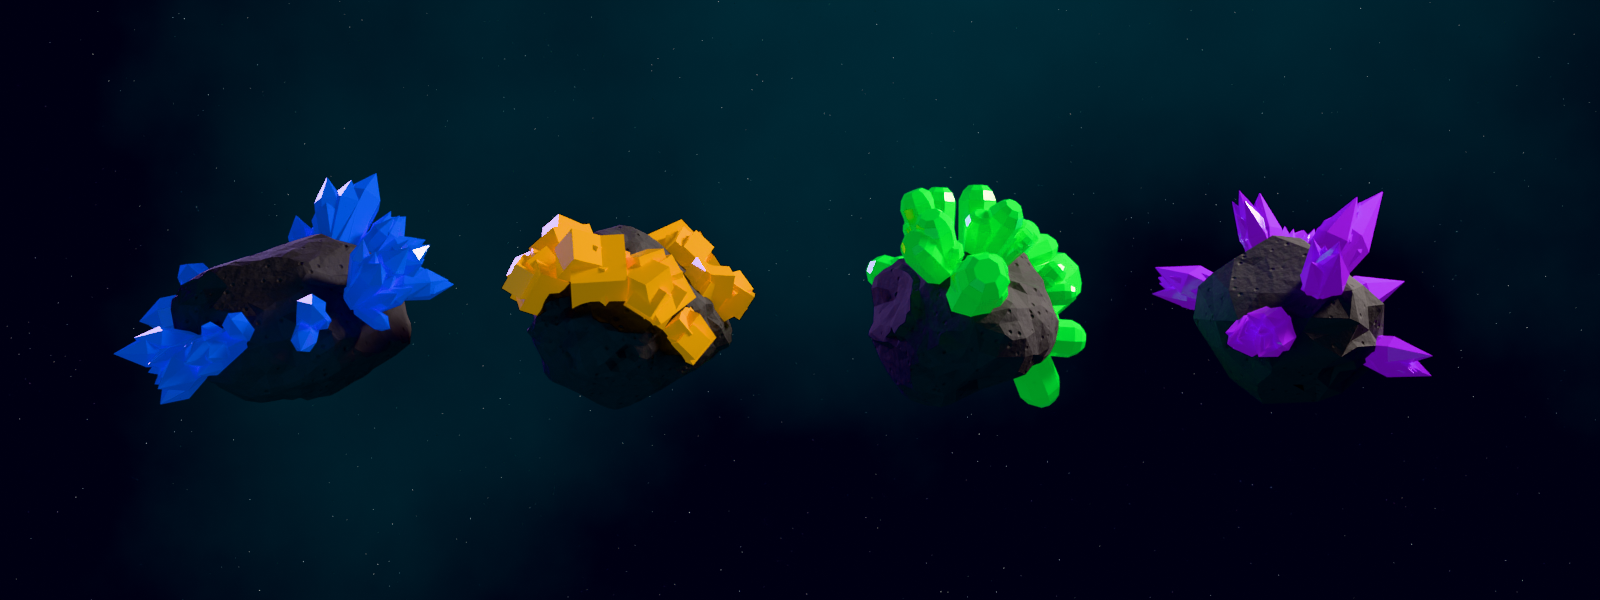
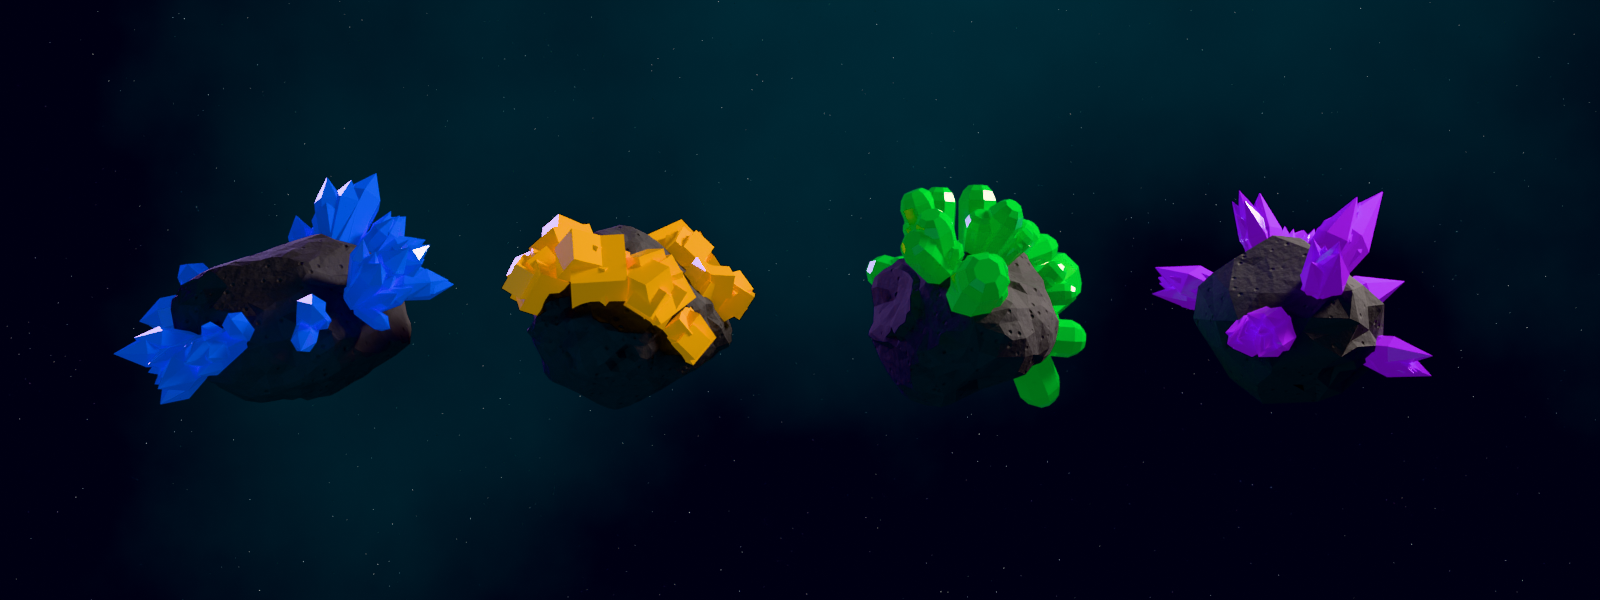
v15 WIP: concept-vs comparisons for installations, rigs, pickups, crystals, station low views; deeper green gems

Changed region(s): [[0.5312, 0.3, 0.6875, 0.69]]

diff --git a/tools/blender/compare_env.py b/tools/blender/compare_env.py
@@ -2,14 +2,14 @@
 import sys
 from PIL import Image, ImageDraw, ImageFont
 B = '/workspace/stellar-frontier/'
-def comp(crop, render, out, title):
-    a = Image.open(B + 'briefs/crops/' + crop).convert('RGB'); b = Image.open(B + 'blender/shots/env/' + render).convert('RGB')
+def comp(crop, render, out, title, ver='v14'):
+    a = Image.open(B + ('briefs/' + crop if crop.startswith('crops2/') else 'briefs/crops/' + crop)).convert('RGB'); b = Image.open(B + 'blender/shots/env/' + render).convert('RGB')
     H = 520; a = a.resize((int(a.width * H / a.height), H)); b = b.resize((int(b.width * H / b.height), H))
     o = Image.new('RGB', (a.width + b.width + 12, H + 44), (10, 10, 18)); o.paste(a, (0, 44)); o.paste(b, (a.width + 12, 44))
     d = ImageDraw.Draw(o)
     try: f = ImageFont.truetype('/usr/share/fonts/truetype/dejavu/DejaVuSans-Bold.ttf', 22)
     except Exception: f = None
-    d.text((10, 10), 'CONCEPT: ' + title, fill=(230, 210, 160), font=f); d.text((a.width + 22, 10), 'BLENDER (v14)', fill=(150, 220, 255), font=f)
+    d.text((10, 10), 'CONCEPT: ' + title, fill=(230, 210, 160), font=f); d.text((a.width + 22, 10), 'BLENDER (' + ver + ')', fill=(150, 220, 255), font=f)
     o.save(B + 'blender/shots/env/' + out)
 if __name__ == '__main__':
     M = [('ast-lumpy.png', 'asteroid-lumpy_a.png', 'lumpy rock'), ('ast-porous3.png', 'asteroid-porous.png', 'porous rock'),
@@ -21,10 +21,33 @@ if __name__ == '__main__':
           ('st-dome.png', 'station-l5.png', 'dome biosphere (L5 Industrial Hub)'), ('st-industrial.png', 'station-l5.png', 'industrial hub (L5 Industrial Hub)'),
           ('st-ring.png', 'station-l6.png', 'ring station (L6 Frontier Citadel)'), ('st-ring3.png', 'station-l6.png', 'ring citadel, sheet 3 (L6)'),
           ('crystals3.png', 'sheet-crystals.png', 'crystal colours (rich rocks)')]
+    V15 = [('crops2/citadel.png', 'inst-hq.png', 'pirate citadel -> Faction Stronghold', 'concept-vs-inst-hq.png'),
+           ('crops2/fortress3.png', 'inst-hq.png', 'fortress, sheet 3 -> Faction Stronghold', 'concept-vs-inst-hq-b.png'),
+           ('crops2/turretplat3.png', 'inst-def.png', 'turret platform -> Orbital Defense Platform', 'concept-vs-inst-def.png'),
+           ('crops2/comms.png', 'inst-comm.png', 'comms dish relay -> Communication Array', 'concept-vs-inst-comm.png'),
+           ('crops2/hangar.png', 'inst-yard.png', 'hangar block -> Hidden Shipyard', 'concept-vs-inst-yard.png'),
+           ('crops2/hangar3.png', 'inst-hangar.png', 'hangar, sheet 3 -> Fighter Hangar', 'concept-vs-inst-hangar.png'),
+           ('crops2/reactor.png', 'inst-reactor.png', 'reactor ring -> Fusion Reactor', 'concept-vs-inst-reactor.png'),
+           ('crops2/smallring.png', 'inst-gen.png', 'ring outpost -> Shield Generator', 'concept-vs-inst-gen.png'),
+           ('crops2/turretplat3.png', 'inst-turret.png', 'turret platform -> Defense Turret', 'concept-vs-inst-turret.png'),
+           ('crops2/beacon.png', 'inst-relay.png', 'green beacon spire -> repair relay', 'concept-vs-inst-relay.png'),
+           ('crops2/pit.png', 'rig-pit.png', 'open-pit mine + crane -> Resource Facility', 'concept-vs-rig-pit.png'),
+           ('crops2/drill.png', 'rig-drill.png', 'crystal drill rig (set dressing)', 'concept-vs-rig-drill.png'),
+           ('crops2/tunnel.png', 'rig-tunnel.png', 'tunnel hangar (set dressing)', 'concept-vs-rig-tunnel.png'),
+           ('crops2/colony.png', 'rig-colony.png', 'dome colony (set dressing)', 'concept-vs-rig-colony.png'),
+           ('crops2/gems3.png', 'sheet-pickups.png', 'gems -> ore pickups', 'concept-vs-pickups.png'),
+           ('crops2/gems3.png', 'sheet-crystals.png', 'gems -> rich crystal rocks', 'concept-vs-sheet-crystals.png'),
+           ('crops/st-industrial3.png', 'station-l4-low.png', 'rock base + cranes (L4, low view, v15 detail)', 'concept-vs-station-l4-low.png'),
+           ('crops/st-ring.png', 'station-l6-low.png', 'ring station (L6, low view, v15 detail)', 'concept-vs-station-l6-low.png')]
+    if '--v15' in sys.argv:
+        for c, r, t, n in V15:
+            c = c if c.startswith('crops2/') else c[6:]
+            comp(c, r, n, t, 'v15')
+        sys.exit(0)
     only = sys.argv[1:]
     for c, r, t in M:
         n = 'concept-vs-' + r if not r.startswith('asteroid-') else r.replace('asteroid-', 'concept-vs-asteroid-')
         if c.startswith('st-industrial.') or c.startswith('st-ring3') : n = n.replace('.png', '-b.png')
         if not only or any(k in r for k in only):
-            try: comp(c, r, n, t)
+            try: comp(c, r, n, t, 'v15' if 'station' in r or 'crystals' in r else 'v14')
             except FileNotFoundError as e: print('skip', e)

diff --git a/tools/blender/gems.py b/tools/blender/gems.py
@@ -27,12 +27,13 @@ if __name__ == '__main__':
     export('pickups', objs, normals=False, uvs=False)
     if '--render' in sys.argv:
         space_world(1.0)
-        tint = {'hex': (0.3, 1.4, 3.6), 'cube': (3.4, 2.0, 0.4), 'emerald': (0.25, 2.6, 0.8), 'amethyst': (2.2, 0.7, 3.6)}
+        tint = {'hex': (0.3, 1.4, 3.6), 'cube': (3.4, 2.3, 0.45), 'emerald': (0.25, 2.6, 0.8), 'amethyst': (2.2, 0.7, 3.6)}
         for i, (st, ob) in enumerate(zip(STYLES, objs)):
             ob.location = ((i - 1.5) * 0.9, 0, 0)
             m = bpy.data.materials['X'].copy(); b = m.node_tree.nodes['Principled BSDF']; c = tint[st]; mx = max(c); sat = lambda x: (x / mx) ** 2.2
             b.inputs['Emission Color'].default_value = (sat(c[0]), sat(c[1]), sat(c[2]), 1); b.inputs['Emission Strength'].default_value = 0.25 * mx
-            b.inputs['Base Color'].default_value = (sat(c[0]) * 0.7, sat(c[1]) * 0.7, sat(c[2]) * 0.7, 1); b.inputs['Roughness'].default_value = 0.06
+            k = 0.42 if st == 'emerald' else 0.7; b.inputs['Base Color'].default_value = (sat(c[0]) * k, sat(c[1]) * k, sat(c[2]) * k, 1)
+            if st == 'emerald': b.inputs['Emission Strength'].default_value = 0.12 * mx; b.inputs['Roughness'].default_value = 0.06
             for j, sl in enumerate(ob.material_slots):
                 if sl.material and sl.material.name == 'X': ob.material_slots[j].link = 'OBJECT'; ob.material_slots[j].material = m
         shoot(objs, os.path.join(SHOTS, 'sheet-pickups.png'), view=(0.0, -1, 0.45), res=(1400, 500), samples=32, dist=0.5)

diff --git a/tools/blender/asteroids.py b/tools/blender/asteroids.py
@@ -107,7 +107,8 @@ if __name__ == '__main__':
             if v in tint:  # per-object glow copy of X
                 m = bpy.data.materials['X'].copy(); b = m.node_tree.nodes['Principled BSDF']; c = tint[v]; mx = max(c)
                 gem = v.startswith('crystal'); sat = lambda x: (x / mx) ** (2.2 if gem else 1)
-                b.inputs['Emission Color'].default_value = (sat(c[0]), sat(c[1]), sat(c[2]), 1); b.inputs['Emission Strength'].default_value = (0.07 if gem else 0.32) * mx; b.inputs['Base Color'].default_value = (sat(c[0]) * 0.85, sat(c[1]) * 0.85, sat(c[2]) * 0.85, 1); b.inputs['Roughness'].default_value = 0.06 if gem else 0.15
+                b.inputs['Emission Color'].default_value = (sat(c[0]), sat(c[1]), sat(c[2]), 1); b.inputs['Emission Strength'].default_value = (0.07 if gem else 0.32) * mx; k = 0.5 if v == 'crystal_d' else 0.85; b.inputs['Base Color'].default_value = (sat(c[0]) * k, sat(c[1]) * k, sat(c[2]) * k, 1); b.inputs['Roughness'].default_value = 0.06 if gem else 0.15
+                if v == 'crystal_d': b.inputs['Emission Strength'].default_value = 0.035 * mx
                 for j, sl in enumerate(ob.material_slots):
                     if sl.material and sl.material.name == 'X': ob.material_slots[j].link = 'OBJECT'; ob.material_slots[j].material = m
         # single shots

diff --git a/PROGRESS.md b/PROGRESS.md
@@ -197,6 +197,6 @@ Checklist:
 - [x] mining rigs (4) + Resource Facility + deep set dressing
 - [x] gem pickups + rich crystal styles + facet shader
 - [x] home station detail pass: hanging pendants under the rings, scaffolds, pipe runs + roof vents, hanging spires (L1/L5), bigger hex crystal clusters on the rock (L6 52k -> 59k tris); low-angle renders station-l*-low.png
-- [ ] concept-vs comparisons (blender/shots/env/concept-vs-*)
+- [x] concept-vs comparisons: shots/env/concept-vs-inst-*.png (9 kinds + hq-b), concept-vs-rig-*.png (4), concept-vs-pickups.png, concept-vs-sheet-crystals.png, concept-vs-station-l4-low / l6-low.png
 - [ ] tests/v15env.js + old suites green
 - [ ] merge to main, cache-bust v15, push, verify live
